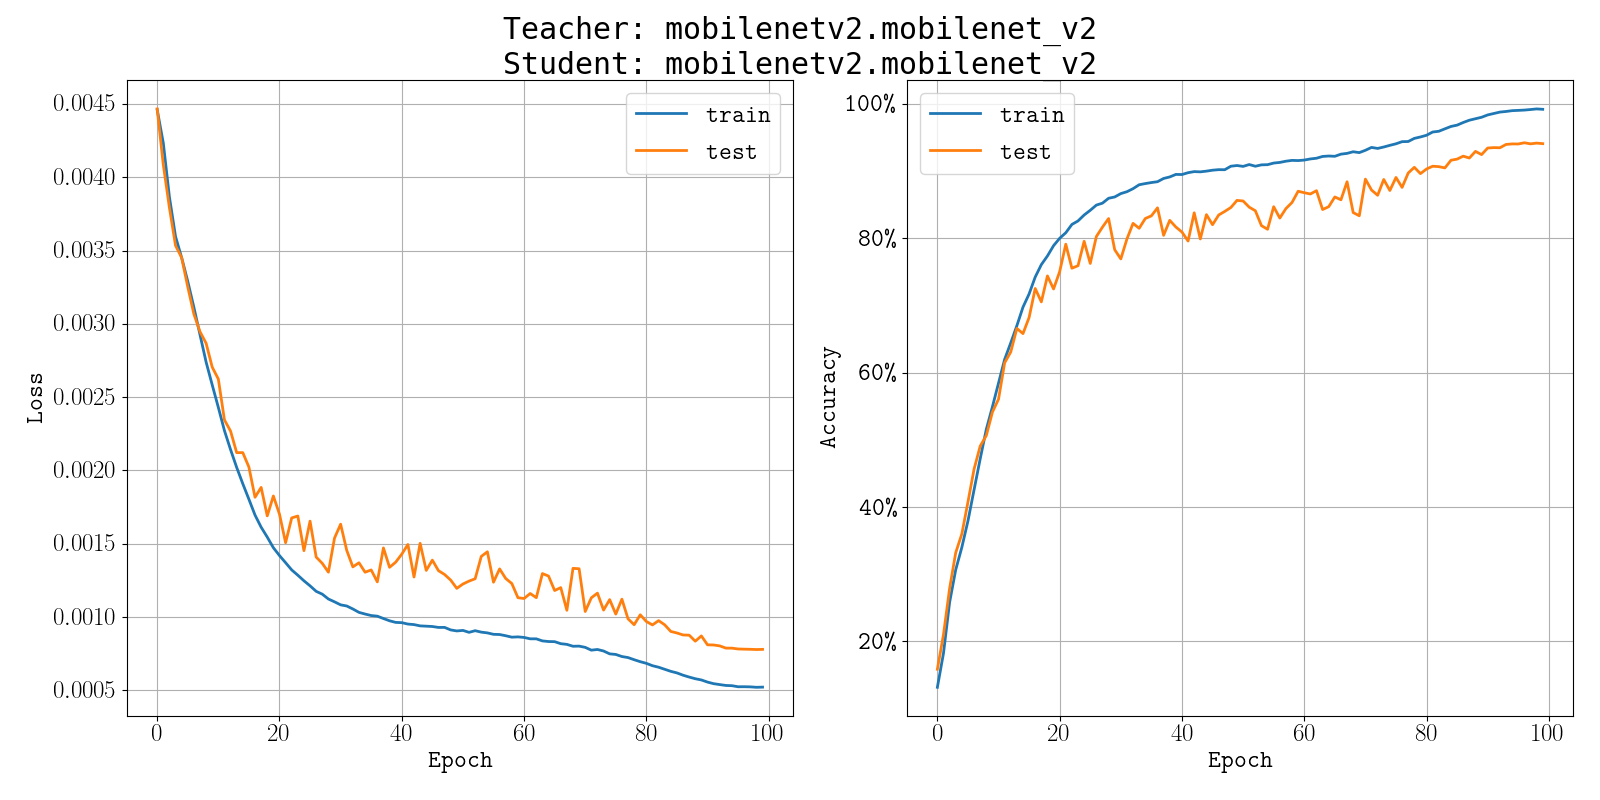
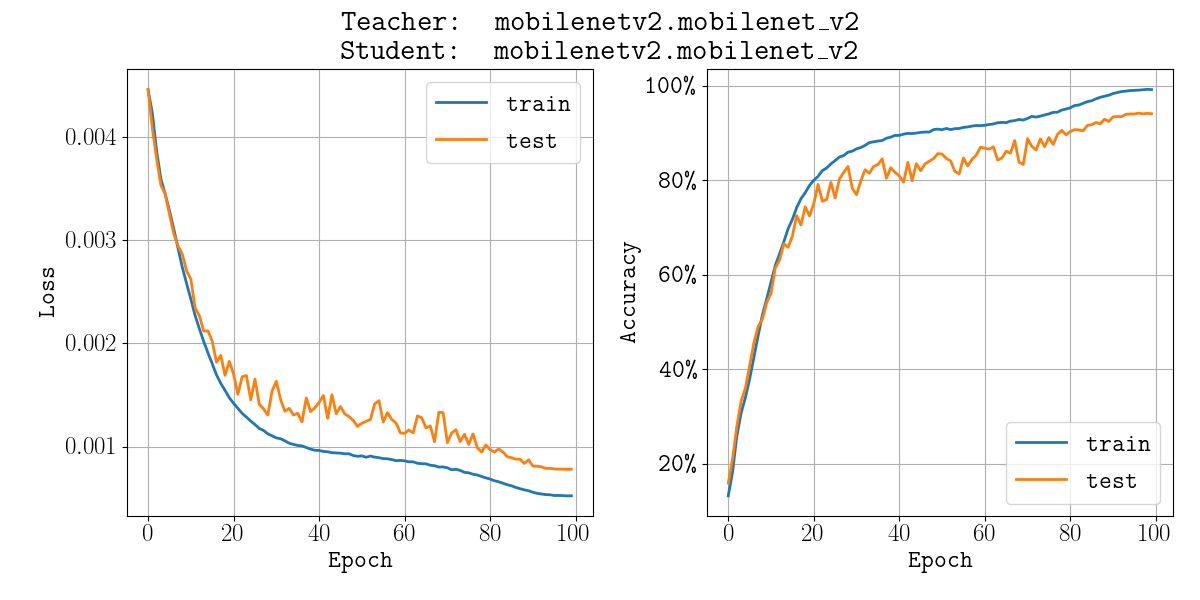
smaller demo image

diff --git a/plot_json.py b/plot_json.py
@@ -48,7 +48,7 @@ def plot(data):
   #   elif isinstance(value, (list, tuple)):
   #     y.append(key)
   # assert len(y) == 0 or len(modes) == 0
-  fig, ax = plt.subplots(1, 2, figsize=(16, 8), sharex=True)
+  fig, ax = plt.subplots(1, 2, figsize=(12, 6), sharex=True)
 
   for mode in modes:
     ax[0].plot(epochs, data[mode]['loss'], label=mode)
@@ -65,10 +65,12 @@ def plot(data):
   ax[1].grid()
   ax[1].legend()
 
-  plt.suptitle(f'Teacher: {data["teacher_name"]}\nStudent: {data["student_name"]}', usetex=False)
+  teacher_name = data['teacher_name'].replace('_', r'\_')
+  student_name = data['student_name'].replace('_', r'\_')
+  plt.suptitle(f'Teacher: {teacher_name}\nStudent: {student_name}')
   plt.tight_layout()
-  plt.subplots_adjust(top=0.9)
-  # plt.tight_layout(rect=[0, 0.03, 1, 0.95])
+  # plt.subplots_adjust(top=0.9)
+  plt.tight_layout(rect=[0, 0.0, 1, 0.93])
 
   return ax
 
